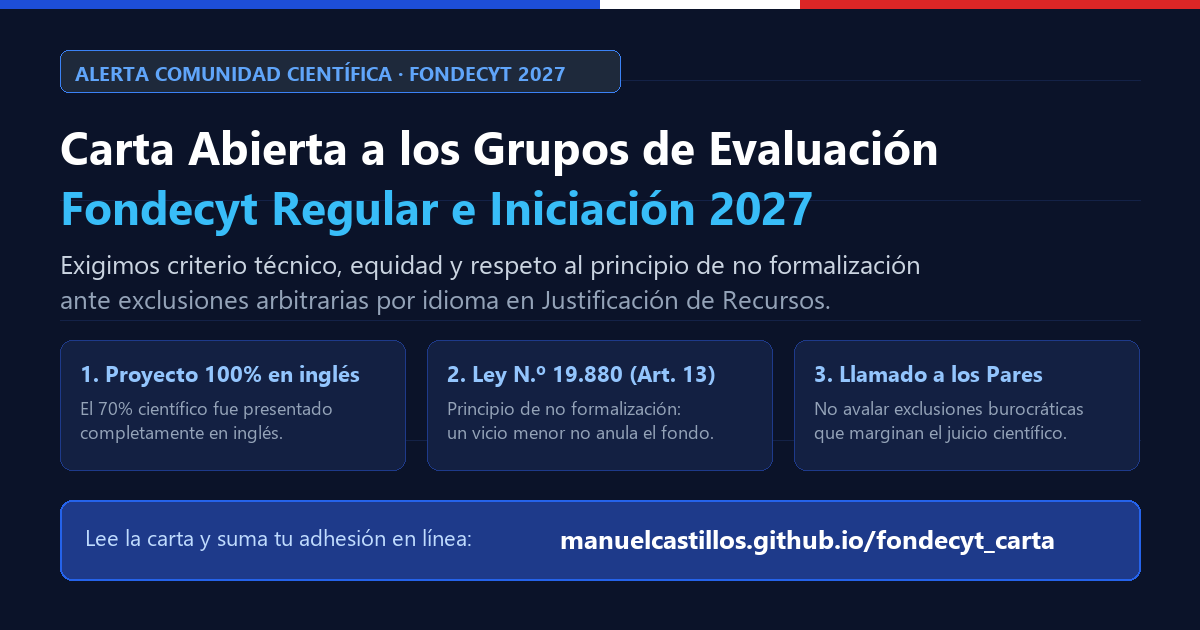
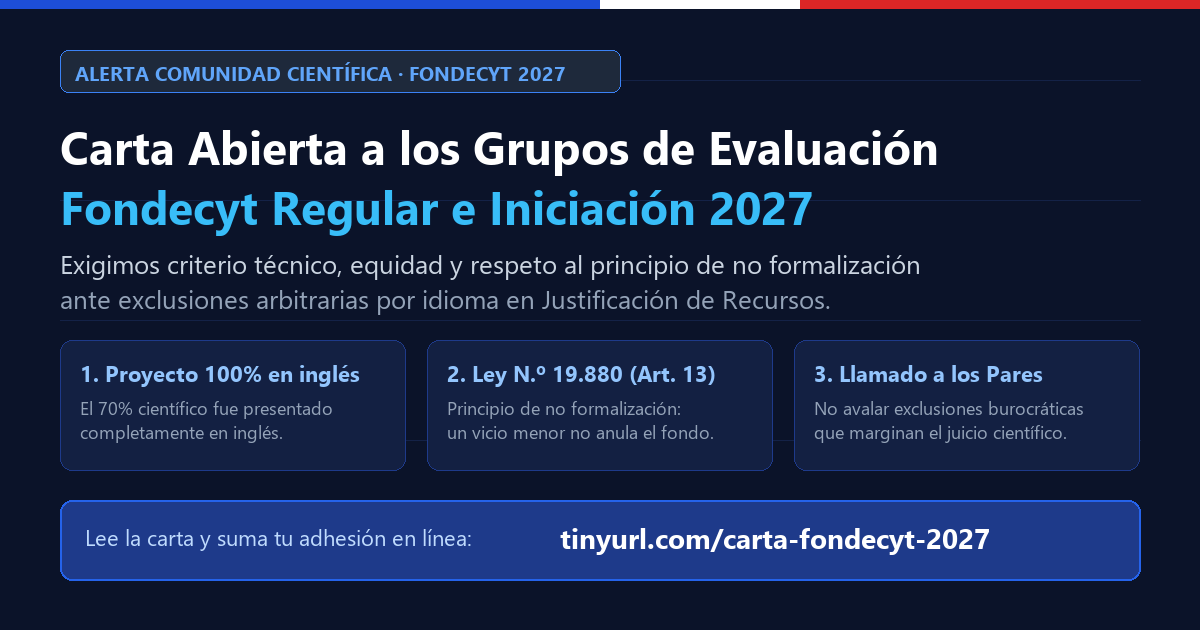
Usar enlace corto para compartir y ocultar URL de GitHub

Changed region(s): [[0.4625, 0.8444, 0.8942, 0.8746]]

diff --git a/app.js b/app.js
@@ -535,7 +535,7 @@ function mostrarError(mensaje) {
 
 // DIFUSIÓN: WhatsApp
 function shareOnWhatsApp() {
-  const url = window.location.href.split("#")[0];
+  const url = getShareUrl();
   const mensajeBase = (typeof CONFIG !== "undefined" && CONFIG.shareMessages?.whatsapp) 
     ? CONFIG.shareMessages.whatsapp 
     : "⚠ URGENTE COMUNIDAD CIENTÍFICA: Investigadores de Chile declarados fuera de bases en Fondecyt 2027 por tecnicismo en la plataforma SPL de ANID (Justificación de recursos en español mientras 100% científico en inglés). Firma la carta aquí: ";
@@ -546,7 +546,7 @@ function shareOnWhatsApp() {
 
 // DIFUSIÓN: X / Twitter
 function shareOnTwitter() {
-  const url = window.location.href.split("#")[0];
+  const url = getShareUrl();
   const tweetText = (typeof CONFIG !== "undefined" && CONFIG.shareMessages?.twitter)
     ? CONFIG.shareMessages.twitter
     : "Investigadores de Chile piden a los Grupos de Evaluación Fondecyt no avalar exclusiones injustas de la @ANIDChile en Fondecyt 2027 por tecnicismo de idioma. ¡Apoya la carta abierta! #Fondecyt2027 #CienciaChilena";
@@ -557,14 +557,14 @@ function shareOnTwitter() {
 
 // DIFUSIÓN: LinkedIn
 function shareOnLinkedIn() {
-  const url = window.location.href.split("#")[0];
+  const url = getShareUrl();
   const linkedinUrl = `https://www.linkedin.com/sharing/share-offsite/?url=${encodeURIComponent(url)}`;
   window.open(linkedinUrl, "_blank");
 }
 
 // Copiar enlace general
 function copyShareLink() {
-  const url = window.location.href.split("#")[0];
+  const url = getShareUrl();
   navigator.clipboard.writeText(url).then(() => {
     alert("¡Enlace copiado al portapapeles! Ya puedes pegarlo y compartirlo.");
   }).catch(() => {
@@ -575,7 +575,7 @@ function copyShareLink() {
 // Copiar texto sugerido para grupos de WhatsApp
 function copyPredefinedText() {
   const p = document.getElementById("whatsapp-sample-text");
-  const url = window.location.href.split("#")[0];
+  const url = getShareUrl();
   const texto = p ? `${p.innerText} ${url}` : url;
   
   navigator.clipboard.writeText(texto).then(() => {
@@ -625,4 +625,10 @@ function escapeHtml(text) {
     .replace(/>/g, "&gt;")
     .replace(/"/g, "&quot;")
     .replace(/'/g, "&#039;");
+}
+
+// URL pública para compartir: usa el enlace corto si está configurado
+function getShareUrl() {
+  if (typeof CONFIG !== "undefined" && CONFIG.shortUrl) return CONFIG.shortUrl;
+  return window.location.href.split("#")[0];
 }

diff --git a/config.js b/config.js
@@ -7,6 +7,9 @@ const CONFIG = {
   
   // Correo de contacto y vocería para prensa y coordinación
   contactEmail: "voceria.afectados.fondecyt@gmail.com",
+
+  // Enlace corto público para compartir (redirige al sitio)
+  shortUrl: "https://tinyurl.com/carta-fondecyt-2027",
   
   // URL de Google Apps Script (opcional, para guardar firmas directamente en Google Sheets gratis)
   // Deja vacío "" si usas el servidor local Python o almacenamiento en navegador
